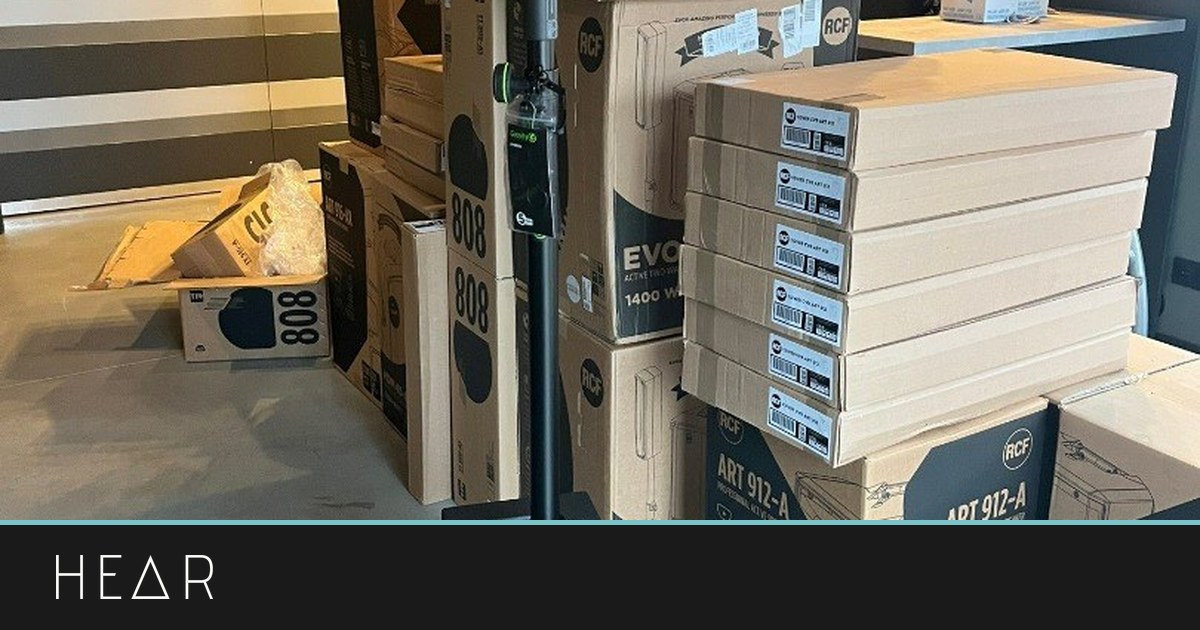
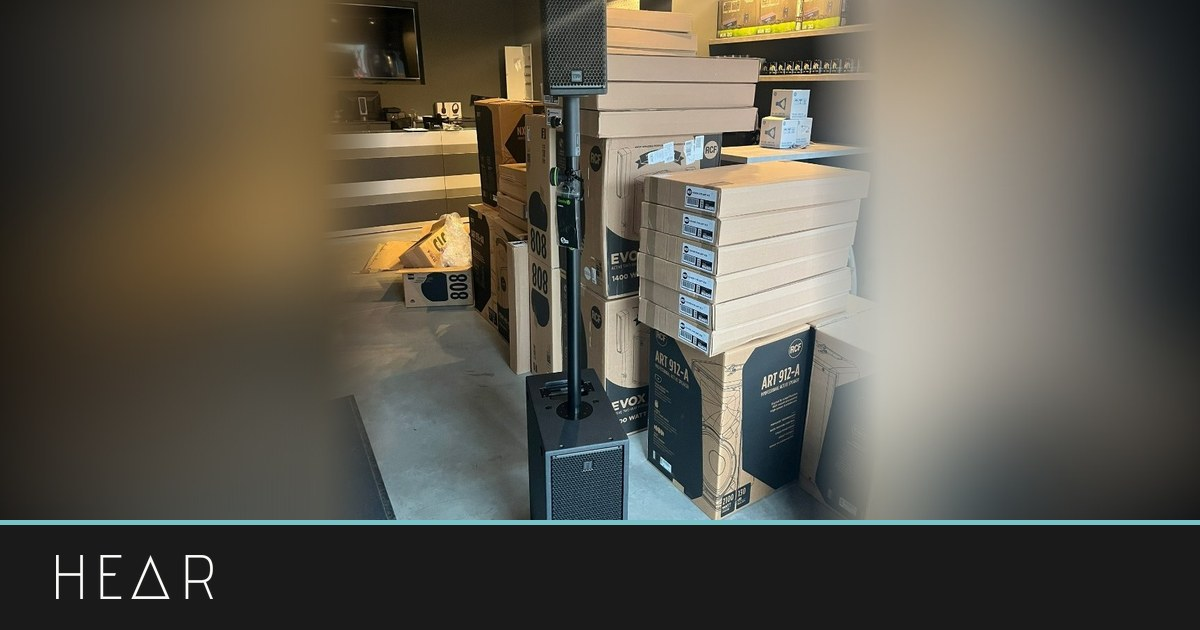
Nieuws: staande foto verbreed voor de tegel; kopbeeld passend i.p.v. bijgesneden
Claude-Session: https://claude.ai/code/session_01GmX7kLSd7zBrRVaX3p88AV

diff --git a/site/nieuws/index.html b/site/nieuws/index.html
@@ -32,7 +32,7 @@
   })();
 </script><main class="wrap">
 <section class="casehead"><a class="crumb" href="/index.html">← HEAR</a><h1>Nieuws</h1></section>
-<section class="case-overzicht"><article class="case-tegel"><img src="/img/nieuws/kxm-25-a-concert.jpg" alt="RCF KXM 25-A floormonitor met een festivalpodium op de achtergrond" loading="lazy" style="object-position:center 60%"><div class="case-tekst"><p class="labels"><time datetime="2026-10-17">17 oktober 2026</time></p><h2><a class="tegel-link" href="/nieuws/kxm-25-a-floormonitor.html">Nieuw in de booth: RCF KXM 25-A floormonitor</a></h2><p>Een 15-inch coaxiale floormonitor voor dj&#x27;s die hun monitoring liever onzichtbaar voor het publiek hebben. Krachtig, punchy en coherent.</p><span class="pijl" aria-hidden="true">→</span></div></article><article class="case-tegel"><img src="/img/nieuws/808-515-set.jpg" alt="RCF KX 515-A top op een afstandsbuis boven een SUB 808-AS, net uitgepakt" loading="lazy" style="object-position:center 40%"><div class="case-tekst"><p class="labels"><time datetime="2026-10-17">17 oktober 2026</time></p><h2><a class="tegel-link" href="/nieuws/twee-sets-808-515.html">Nieuw in huis: twee sets RCF SUB 808-AS met KX 515-A</a></h2><p>Twee compacte sub-topsets die drie dingen kunnen: op zichzelf spelen bij een lezing of intieme cocktailparty, monitoren in de dj-booth, en als frontfill of delay meedraaien in het grote systeem.</p><span class="pijl" aria-hidden="true">→</span></div></article></section>
+<section class="case-overzicht"><article class="case-tegel"><img src="/img/nieuws/kxm-25-a-concert.jpg" alt="RCF KXM 25-A floormonitor met een festivalpodium op de achtergrond" loading="lazy" style="object-position:center 60%"><div class="case-tekst"><p class="labels"><time datetime="2026-10-17">17 oktober 2026</time></p><h2><a class="tegel-link" href="/nieuws/kxm-25-a-floormonitor.html">Nieuw in de booth: RCF KXM 25-A floormonitor</a></h2><p>Een 15-inch coaxiale floormonitor voor dj&#x27;s die hun monitoring liever onzichtbaar voor het publiek hebben. Krachtig, punchy en coherent.</p><span class="pijl" aria-hidden="true">→</span></div></article><article class="case-tegel"><img src="/img/nieuws/808-515-set.jpg" alt="RCF KX 515-A top op een afstandsbuis boven een SUB 808-AS, net uitgepakt" loading="lazy"><div class="case-tekst"><p class="labels"><time datetime="2026-10-17">17 oktober 2026</time></p><h2><a class="tegel-link" href="/nieuws/twee-sets-808-515.html">Nieuw in huis: twee sets RCF SUB 808-AS met KX 515-A</a></h2><p>Twee compacte sub-topsets die drie dingen kunnen: op zichzelf spelen bij een lezing of intieme cocktailparty, monitoren in de dj-booth, en als frontfill of delay meedraaien in het grote systeem.</p><span class="pijl" aria-hidden="true">→</span></div></article></section>
 </main><footer class="voet">
   <div class="voet-kolommen">
     <div class="voet-merk">

diff --git a/site/nieuws/twee-sets-808-515.html b/site/nieuws/twee-sets-808-515.html
@@ -32,7 +32,7 @@
   })();
 </script><main class="wrap">
 <section class="casehead"><a class="crumb" href="/nieuws/">← Nieuws</a><p class="label nieuws-datum"><time datetime="2026-10-17">17 oktober 2026</time></p><h1 class="kernzin">Nieuw in huis: twee sets RCF SUB 808-AS met KX 515-A</h1></section>
-<figure class="casehero"><img src="/img/nieuws/808-515-set.jpg" alt="RCF KX 515-A top op een afstandsbuis boven een SUB 808-AS, net uitgepakt" style="object-position:center 40%"></figure>
+<figure class="casehero passend"><img src="/img/nieuws/808-515-set.jpg" alt="RCF KX 515-A top op een afstandsbuis boven een SUB 808-AS, net uitgepakt"></figure>
 <section class="quick quick-breed"><p>Twee compacte sub-topsets die drie dingen kunnen: op zichzelf spelen bij een lezing of intieme cocktailparty, monitoren in de dj-booth, en als frontfill of delay meedraaien in het grote systeem.</p></section>
 <section class="case-sections"><article class="case-section nieuws-tekst"><h2>WAAROM TWEE</h2><div><p>De SUB 808-AS met de KX 515-A erop is onze kleinste volwaardige set: een compacte sub en een top uit dezelfde familie als de KXL 4-A, dus met dezelfde klank, een maat kleiner. Voor een speech, een panel of een cocktailparty tot zo&#x27;n 150 gasten is dit genoeg, en het staat in een paar minuten.</p><p>In de dj-booth doet dezelfde combinatie dienst als monitor, met de tops op oorhoogte links en rechts van de dj.</p><p>De derde rol is de reden dat het er twee zijn. In een groter systeem gaat de 515 los van zijn sub mee als frontfill voor de eerste rijen, of als delay verderop in de zaal. Daardoor kunnen de KXL-toppen hoger hangen en verder richten: het geluid van de mains wordt niet meer door de eerste hoofden opgegeten, en achterin blijft het vol zonder dat het vooraan hard wordt.</p><p class="knoprij"><a class="wa sc" href="/high-end-audio.html">Bekijk high-end audio<i aria-hidden="true">→</i></a></p></div></article></section>
 <nav class="verwijzingen" aria-label="Verder"><a href="/nieuws/">Alle berichten →</a><a href="/index.html">Naar de homepage →</a></nav>

diff --git a/site/styles.css b/site/styles.css
@@ -255,3 +255,6 @@ em,i,cite,address,dfn,var{font-style:normal}
 .quick-breed .cta-intro{margin:30px 0 0!important}
 .quick.quick-breed .cta-intro .wa{font:400 17px/1 var(--tekst)}
 .pagina main>.cta-brug:last-child{padding-bottom:clamp(56px,8vw,100px)}
+
+.casehero.passend{background:var(--zwart)}
+.casehero.passend img{object-fit:contain}

diff --git a/scripts/bouw-nieuws.py b/scripts/bouw-nieuws.py
@@ -71,9 +71,10 @@ for b in berichten:
         k = b["knop"]; ext = k["href"].startswith("http")
         knop = f'<p class="knoprij"><a class="wa sc" href="{e(k["href"])}"{" target=\"_blank\" rel=\"noopener\"" if ext else ""}>{e(k["tekst"])}<i aria-hidden="true">→</i></a></p>'
     pos = f' style="object-position:{e(b["beeld_positie"])}"' if b.get("beeld_positie") else ""
+    passend = " passend" if b.get("beeld_passend") else ""
     main = f'''<main class="wrap">
 <section class="casehead"><a class="crumb" href="/nieuws/">← Nieuws</a><p class="label nieuws-datum"><time datetime="{b["datum"]}">{datum_nl(b["datum"])}</time></p><h1 class="kernzin">{e(b["titel"])}</h1></section>
-<figure class="casehero"><img src="/{e(b["beeld"])}" alt="{e(b.get("beeld_alt",""))}"{pos}></figure>
+<figure class="casehero{passend}"><img src="/{e(b["beeld"])}" alt="{e(b.get("beeld_alt",""))}"{pos}></figure>
 <section class="quick quick-breed"><p>{e(b["intro"])}</p></section>
 <section class="case-sections"><article class="case-section nieuws-tekst"><h2>{e(b.get("label","Bericht")).upper()}</h2><div>{alinea}{knop}</div></article></section>
 <nav class="verwijzingen" aria-label="Verder"><a href="/nieuws/">Alle berichten →</a><a href="/index.html">Naar de homepage →</a></nav>
